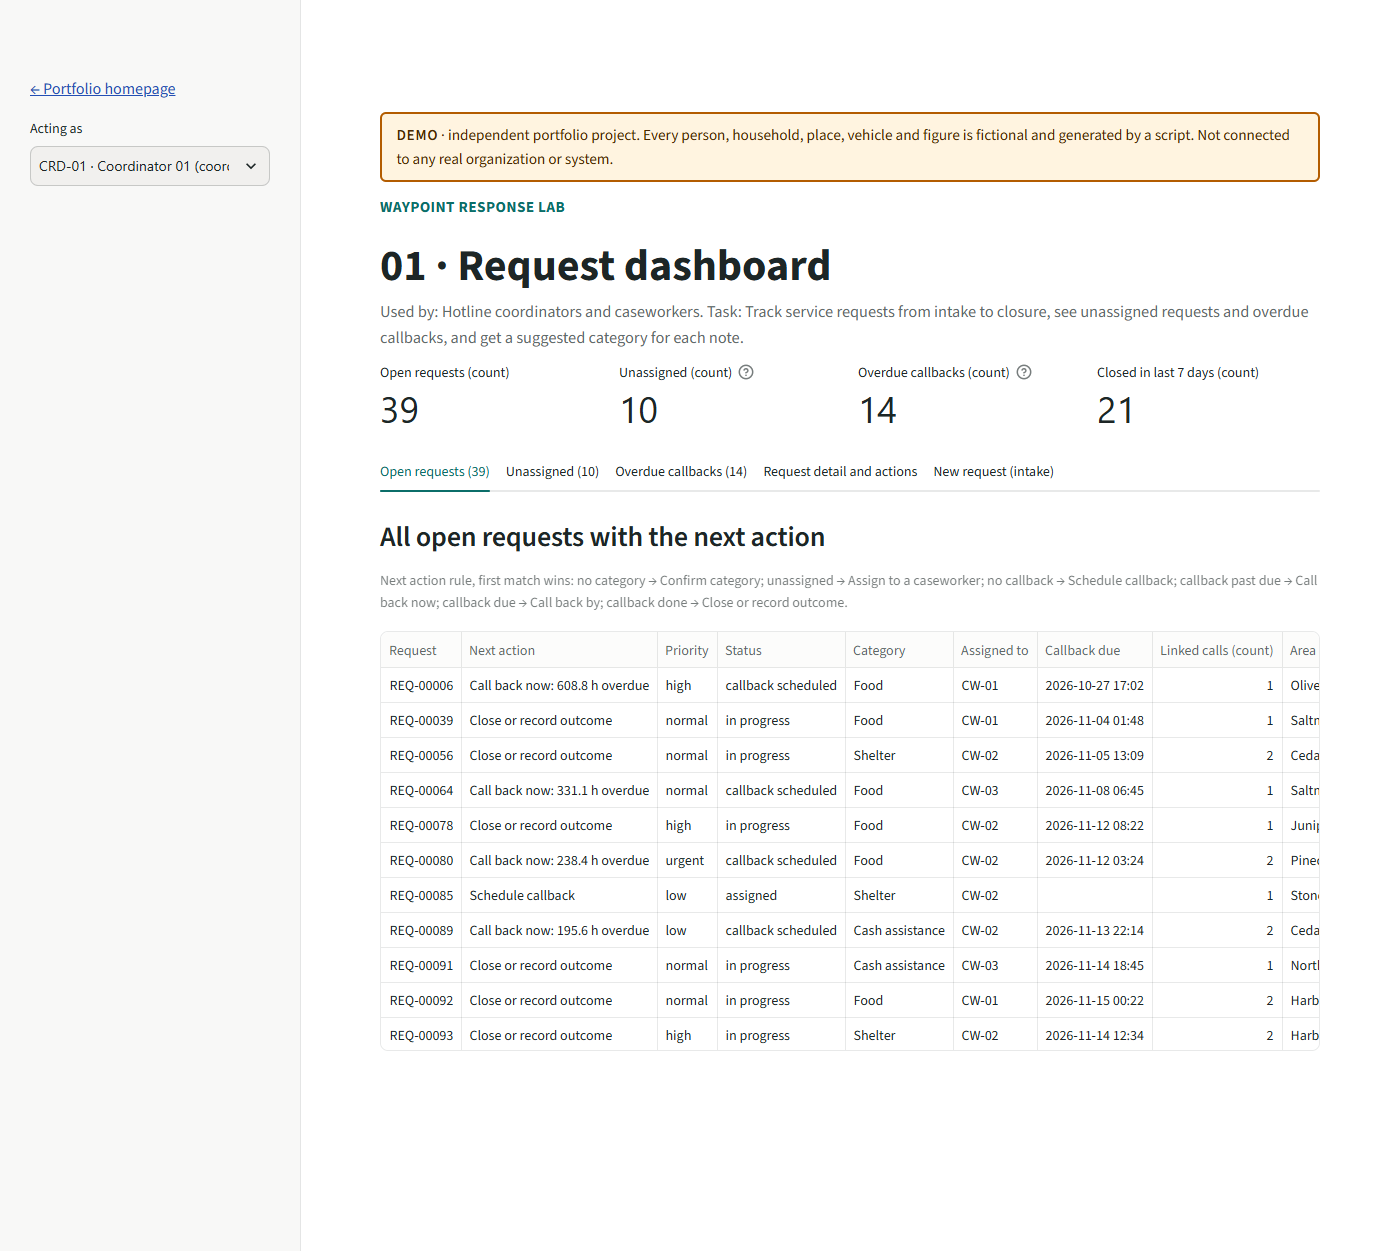
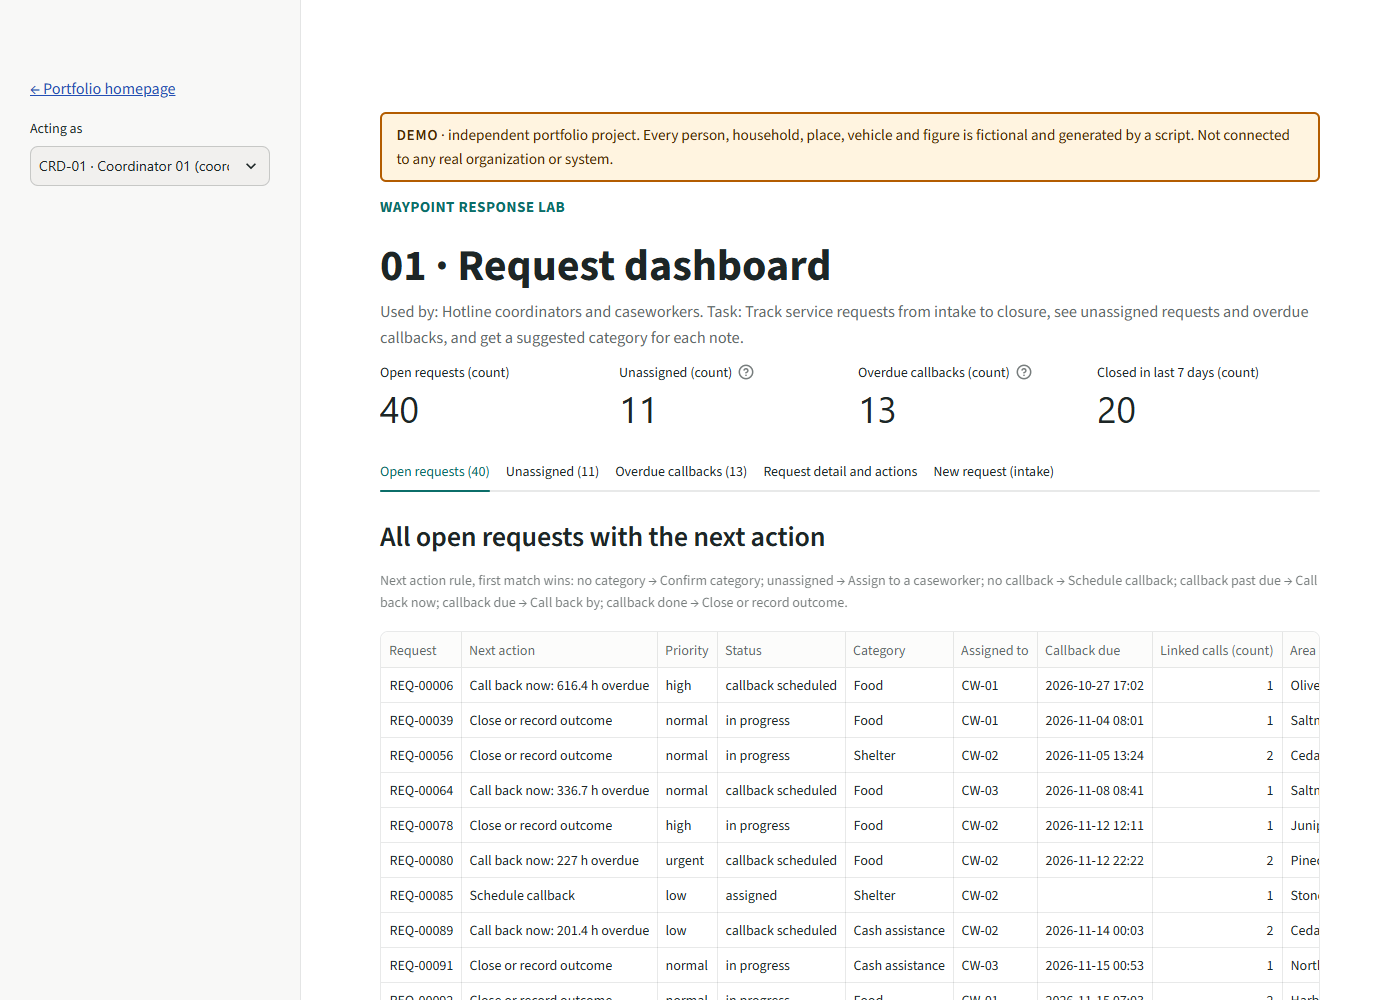
Project 01: review fixes

diff --git a/projects/01-call-center-request-dashboard/README.md b/projects/01-call-center-request-dashboard/README.md
@@ -47,17 +47,17 @@ Port 8501.
 ![Request dashboard](screenshot.png)
 
 ## Try this demo
-Dates move with the seed's anchor time, so the walkthrough request comes from the setting `demo.scenarios`, key `p01`, `unassigned_request_ids`. On the seed built on 2026-11-22 the first ID is **REQ-00114** (an Arabic note asking for chronic-illness medicine); with `--anchor 2026-11-16T10:00:00` (the test clock) it is REQ-00112.
+Dates move with the seed's anchor time, so the walkthrough request comes from the setting `demo.scenarios`, key `p01`, `unassigned_request_ids`. The first ID on a seed built on 2026-11-22 is **REQ-00113**; with `--anchor 2026-11-16T10:00:00` (the test clock) it is REQ-00112. The tiles and the suggestion shown below were read on a seed built on 2026-11-22; other days can differ slightly, so compare the changes, not the absolute numbers.
 
-1. Open the app (`python run.py 01`). The metric tiles show **Open requests 39, Unassigned 10, Overdue callbacks 14, Closed in last 7 days 21** right after a reset (the overdue count can grow as time passes).
-2. Open the tab **Request detail and actions**. The first scenario request (REQ-00114) is already selected: status new, category not confirmed, 1 linked call, next action "Confirm category". The note is shown right-to-left. The box says "Suggested: **Health** (confidence 0.85, computed now by the classifier)" and the category box is pre-filled with Health. (If a request's confidence is below 0.6, the box is blank with a warning and you must choose.) Press **Confirm category**: "REQ-00114: category Health confirmed."
+1. Open the app (`python run.py 01`). The metric tiles show **Open requests 40, Unassigned 11, Overdue callbacks 13, Closed in last 7 days 20** right after a reset (the overdue count can grow as time passes).
+2. Open the tab **Request detail and actions**. The first scenario request (REQ-00113) is already selected: status new, category not confirmed, next action "Confirm category". Arabic notes are shown right-to-left. The box says "Suggested: **Protection** (confidence 0.83, computed now by the classifier)" and the category box is pre-filled with it. (If a request's confidence is below 0.6, the box is blank with a warning and you must choose.) Press **Confirm category**: "REQ-00113: category Protection confirmed."
 3. With the sidebar on CRD-01 (coordinator), choose caseworker **CW-01** and press **Assign**. Then leave "Use the default due time … (assigned + 48 h)" ticked and press **Schedule callback**. The due time is exactly the assignment time + 48 hours.
 4. Press **Record callback done**. Status: in progress, next action "Close or record outcome".
 5. Choose closure outcome **assisted**. Press **Close request** without ticking the box: a warning, nothing changes. Tick "I have reviewed the details…", keep CRD-01 as confirming staff, press **Close request** again.
 
-**Expected result:** "REQ-00114 closed with outcome assisted." Unassigned drops from **10 to 9**, open requests from 39 to 38, closed in last 7 days from 21 to 22. The request shows status closed and a timeline of **6 events**: the seeded `created` event plus the five steps `category_confirmed`, `assigned`, `callback_scheduled`, `callback_done`, `closed`.
+**Expected result:** "REQ-00113 closed with outcome assisted." Unassigned drops from **11 to 10**, open requests from 40 to 39, closed in last 7 days from 20 to 21. The request shows status closed and a timeline of **6 events**: the seeded `created` event plus the five steps `category_confirmed`, `assigned`, `callback_scheduled`, `callback_done`, `closed`.
 
-6. Intake: open **New request (intake)** and type `Family of 6 has no food left, asking for a food parcel and rice.` The app shows "Suggested category: **Food** (confidence 0.91)" and pre-fills Food. Press **Save request**: "Saved REQ-00131 with category Food (status new)." The new request appears under Unassigned (back to 10). A vague note such as `need help please` gets no suggestion (confidence 0.23) and cannot be saved until the operator chooses a category.
+6. Intake: open **New request (intake)** and type `Family of 6 has no food left, asking for a food parcel and rice.` The app shows "Suggested category: **Food** (confidence 0.91)" and pre-fills Food. Press **Save request**: "Saved REQ-00131 with category Food (status new)." The new request appears under Unassigned (one more than before). A vague note such as `need help please` gets no suggestion (confidence 0.23) and cannot be saved until the operator chooses a category.
 
 ## Tests
 `tests/test_p01_request_dashboard.py` (27 tests) covers: the app starts (`app_test(1)`); the next-action rule for every status and case; overdue exactly at, just before and just after the due time, and never for done or closed callbacks; the default due time = assigned + SLA hours, including a changed SLA setting, an earlier time allowed and a later one refused; the unassigned and overdue lists and the metrics against direct SQL on the seed; linked calls counts; a Project 02 style request without a category; intake storing a confident suggestion; intake with a low-confidence note storing `suggested_category` NULL and refusing to save without the operator's category (Part 4: low-confidence predictions are left blank); the suggestion coming from `shared.classifier.predict` with the threshold setting; confirming the category of a seeded request; the full lifecycle with events and audit rows; invalid transitions and roles raising; closing without a valid confirmation raising `ConfirmationRequired` and changing nothing; and the walkthrough above driven through the app with `AppTest`.
